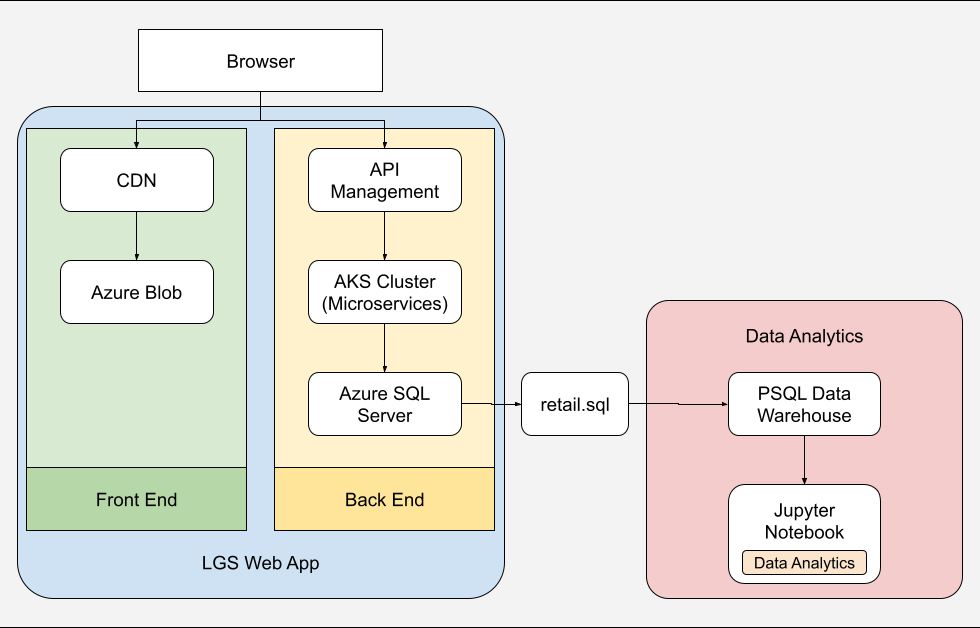
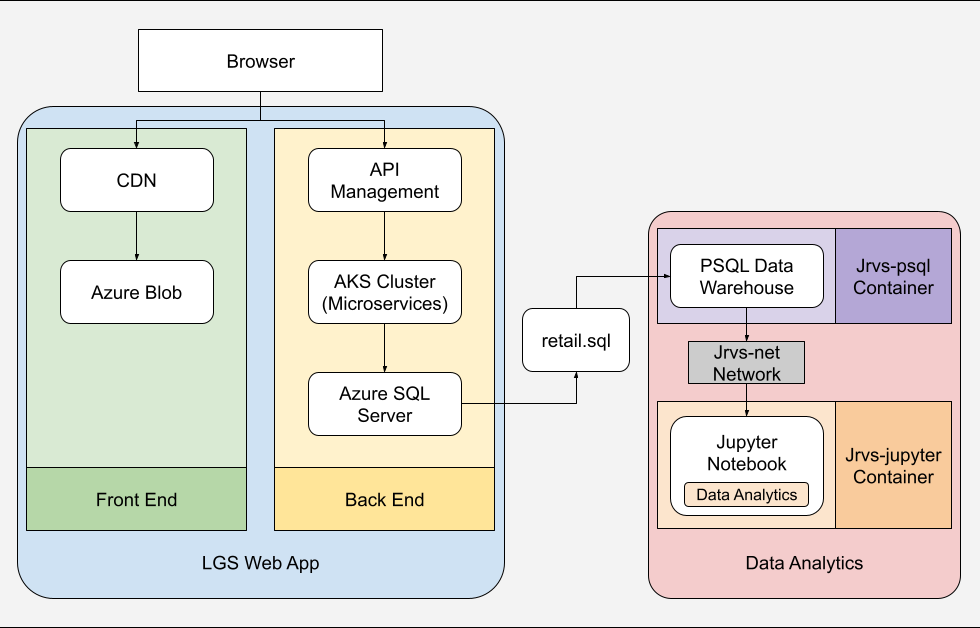
Fixed Chart Formatting in Jupyter Notebook, README Progress

diff --git a/python_data_analytics/README.md b/python_data_analytics/README.md
@@ -12,6 +12,11 @@ Table of Contents
 
 ![Image of Python Project Architecture](./assets/Python%20Project%20Architecture.png)
 
+The diagram above illustrates the project's architecture.
+The dataset to be analyzed is first taken from the Azure SQL server within the LGS web app.
+Then it is exported as a SQL file and loaded into a PSQL data warehouse.
+The container used to store the database uses a Docker network to connect to the container that contains the Jupyter Notebook, allowing data analysis from within a Jupyter Notebook.
+
 ## Data Analytics and Wrangling
 
 The Jupyter Notebook used to perform the data analysis can be found at the following link:
@@ -20,6 +25,6 @@ The Jupyter Notebook used to perform the data analysis can be found at the follo
 
 # Improvements
 Below are a few improvements to consider:
-1. 
-2. 
-3. 
+1. Explore the data by other columns, such as country and item purchased
+2. Improve the visuals of the charts and graphs and create a dashboard using all charts
+3. Create functions to make it easier to perform the same operations on an updated version of the dataset in the future
